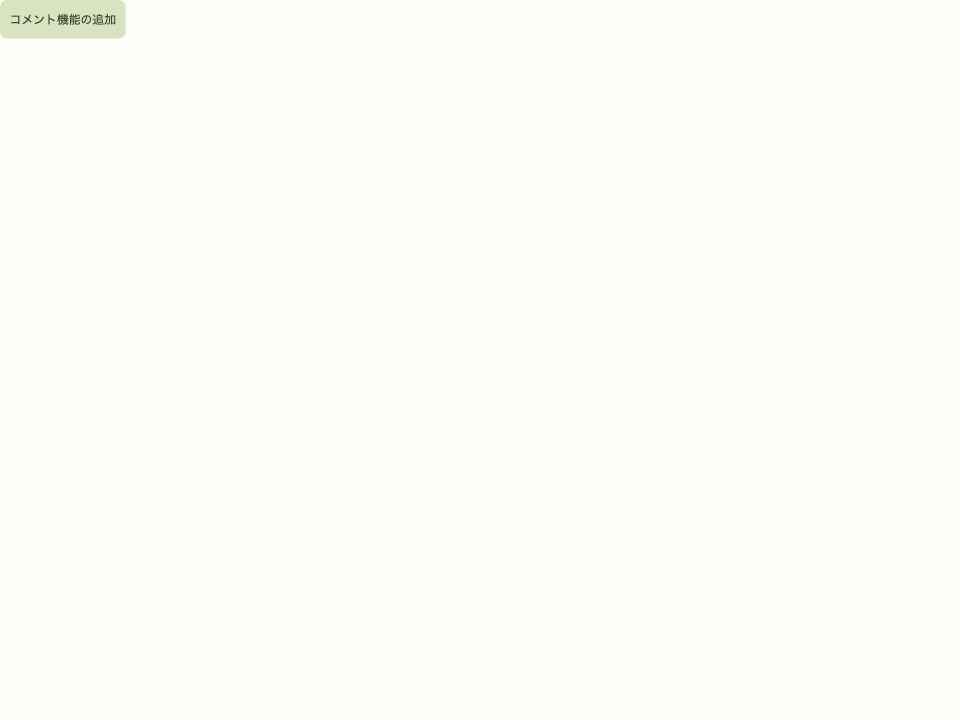
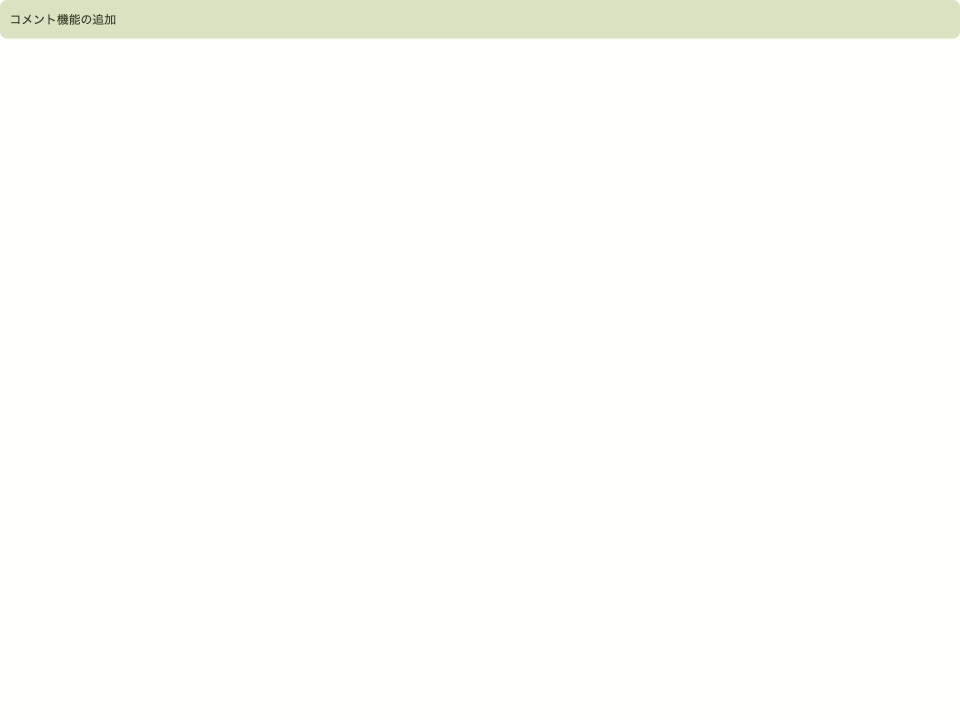
feat: enhance BubbleText component to accept children and update RequestCard integration

Changed region(s): [[0.125, 0.0, 1.0, 0.0611]]

diff --git a/packages/ui/src/components/domain/request-card/request-card.tsx b/packages/ui/src/components/domain/request-card/request-card.tsx
@@ -1,6 +1,6 @@
 import type { ComponentProps, ReactNode } from "react";
 
-import { Expand } from "lucide-react";
+import { ChevronRight } from "lucide-react";
 
 import { Box, HStack, VStack } from "../../common/layout";
 import {
@@ -89,69 +89,70 @@ export const RequestCard = ({
           <AvatarImage alt={avatar.alt} src={avatar.src}></AvatarImage>
           <AvatarFallback>{avatar.fallbackText}</AvatarFallback>
         </Avatar>
-        <Dialog>
-          <DialogTrigger asChild>
-            <Button
-              aria-controls={dialogContentId}
-              aria-label={dialogTriggerLabel}
-              size="icon"
-              type="button"
-              variant="outline"
-            >
-              <Expand />
-            </Button>
-          </DialogTrigger>
-          <DialogContent id={dialogContentId}>
-            <VStack gap="lg">
-              <DialogHeader>
-                <HStack align="center" gap="md">
-                  <Avatar>
-                    <AvatarImage alt={avatar.alt} src={avatar.src} />
-                    <AvatarFallback>
-                      <Text asChild size="xl">
-                        <span>{avatar.fallbackText}</span>
-                      </Text>
-                    </AvatarFallback>
-                  </Avatar>
-                  <DialogTitle>
-                    <Text align="left" size="xl">
-                      {dialogTitle}
-                    </Text>
-                  </DialogTitle>
-                </HStack>
-              </DialogHeader>
-              <VStack gap="xs">
-                <Text color="subtle" size="sm">
-                  作成日: {createdAtText}
-                </Text>
-                <Text color="subtle" size="sm">
-                  更新日: {updatedAtText}
-                </Text>
-              </VStack>
-              <Box bg="muted" p="md" radius="md" w="full">
-                {mdxContent}
-              </Box>
-              <DialogFooter>
-                <HStack align="center" gap="sm" justify="between" w="full">
-                  {footerActions ? (
-                    <HStack gap="sm">{footerActions}</HStack>
-                  ) : (
-                    <Box w="full" />
-                  )}
-                  <DialogClose asChild>
-                    <Button type="button" variant="outline">
-                      閉じる
-                    </Button>
-                  </DialogClose>
-                </HStack>
-              </DialogFooter>
-            </VStack>
-          </DialogContent>
-        </Dialog>
       </VStack>
       <VStack gap="sm">
-        <BubbleText text={text} />
-        <HStack gap="xs">
+        <BubbleText text={text}>
+          <Dialog>
+            <DialogTrigger asChild>
+              <Button
+                aria-controls={dialogContentId}
+                aria-label={dialogTriggerLabel}
+                size="icon"
+                type="button"
+                variant="link"
+              >
+                <ChevronRight />
+              </Button>
+            </DialogTrigger>
+            <DialogContent id={dialogContentId}>
+              <VStack gap="lg">
+                <DialogHeader>
+                  <HStack align="center" gap="md">
+                    <Avatar>
+                      <AvatarImage alt={avatar.alt} src={avatar.src} />
+                      <AvatarFallback>
+                        <Text asChild size="xl">
+                          <span>{avatar.fallbackText}</span>
+                        </Text>
+                      </AvatarFallback>
+                    </Avatar>
+                    <DialogTitle>
+                      <Text align="left" size="xl">
+                        {dialogTitle}
+                      </Text>
+                    </DialogTitle>
+                  </HStack>
+                </DialogHeader>
+                <VStack gap="xs">
+                  <Text color="subtle" size="sm">
+                    作成日: {createdAtText}
+                  </Text>
+                  <Text color="subtle" size="sm">
+                    更新日: {updatedAtText}
+                  </Text>
+                </VStack>
+                <Box bg="muted" p="md" radius="md" w="full">
+                  {mdxContent}
+                </Box>
+                <DialogFooter>
+                  <HStack align="center" gap="sm" justify="between" w="full">
+                    {footerActions ? (
+                      <HStack gap="sm">{footerActions}</HStack>
+                    ) : (
+                      <Box w="full" />
+                    )}
+                    <DialogClose asChild>
+                      <Button type="button" variant="outline">
+                        閉じる
+                      </Button>
+                    </DialogClose>
+                  </HStack>
+                </DialogFooter>
+              </VStack>
+            </DialogContent>
+          </Dialog>
+        </BubbleText>
+        <HStack gap="xs" wrap="wrap">
           {reactions?.map((reaction, index) => (
             <EmojiReaction
               active={reaction.reactedByViewer}

diff --git a/packages/ui/src/components/domain/bubble-text/bubble-text.tsx b/packages/ui/src/components/domain/bubble-text/bubble-text.tsx
@@ -1,13 +1,15 @@
-import { Box } from "../../common/layout";
+import { PropsWithChildren } from "react";
+
+import { Box, HStack } from "../../common/layout";
 import { Text } from "../../common/typography";
 
-type Props = {
+type Props = PropsWithChildren<{
   text: string;
-};
+}>;
 
-export const BubbleText = ({ text }: Props) => {
+export const BubbleText = ({ children, text }: Props) => {
   return (
-    <Box bg="muted" p="md" position="relative" radius="md" w="fit">
+    <Box bg="muted" p="md" position="relative" radius="md">
       <Box
         aria-hidden
         bg="muted"
@@ -21,9 +23,12 @@ export const BubbleText = ({ text }: Props) => {
         translateY="-1/2"
         w="3"
       />
-      <Text color="subtle" size="md">
-        {text}
-      </Text>
+      <HStack gap="sm" justify="between" self="stretch" wrap="wrap">
+        <Text color="subtle" size="md">
+          {text}
+        </Text>
+        {children}
+      </HStack>
     </Box>
   );
 };
